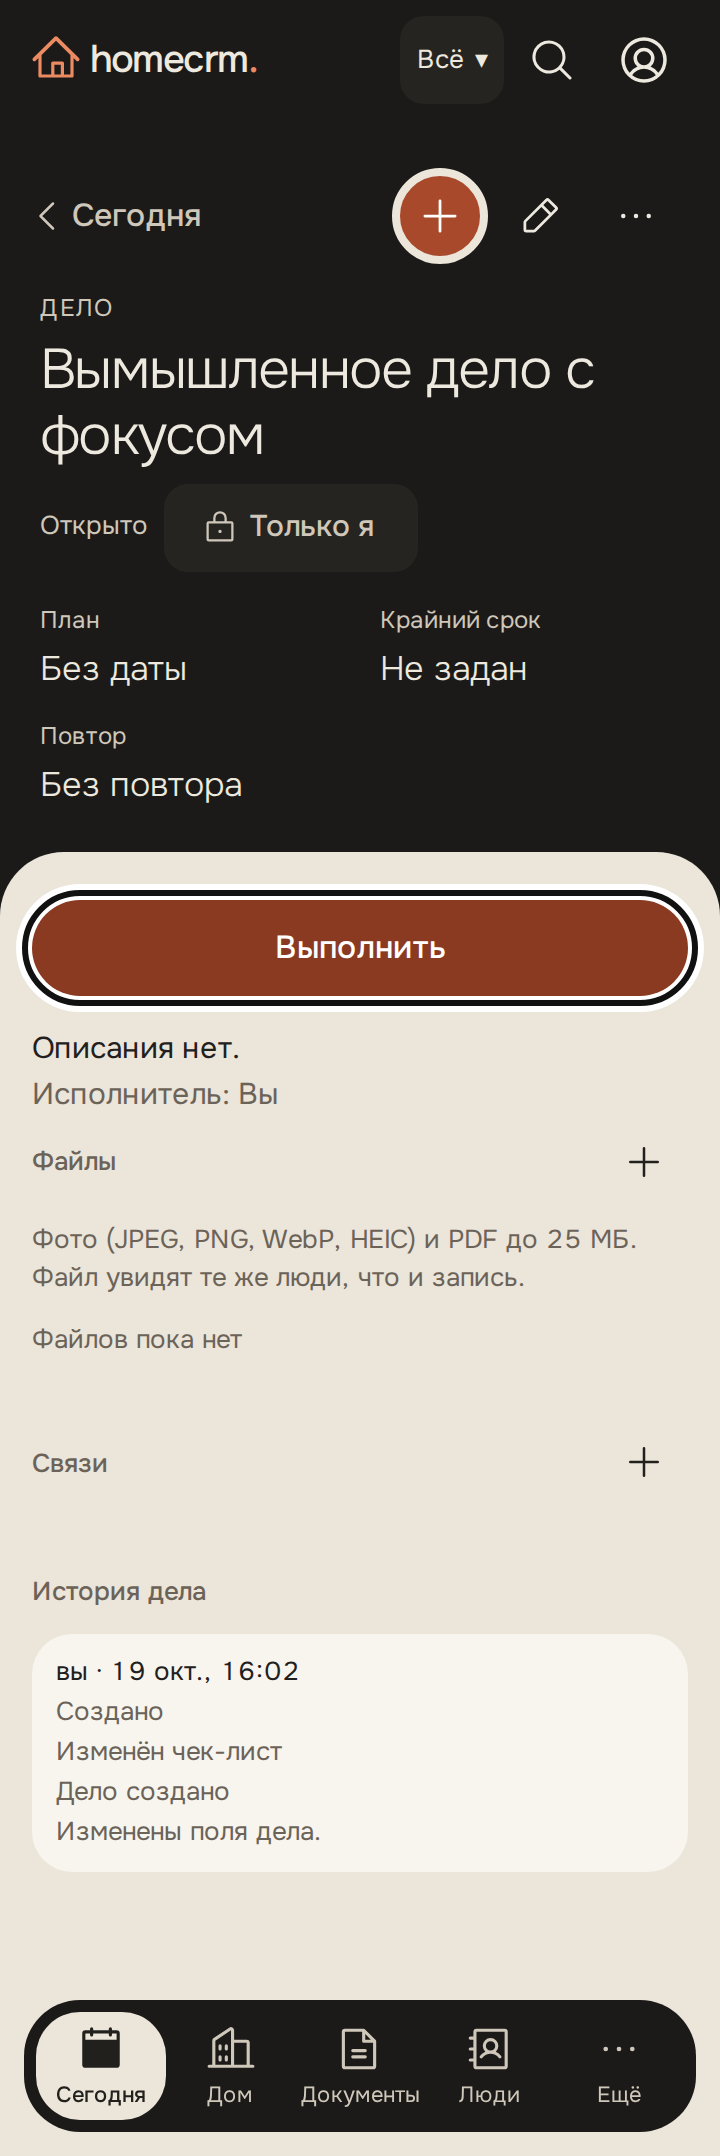
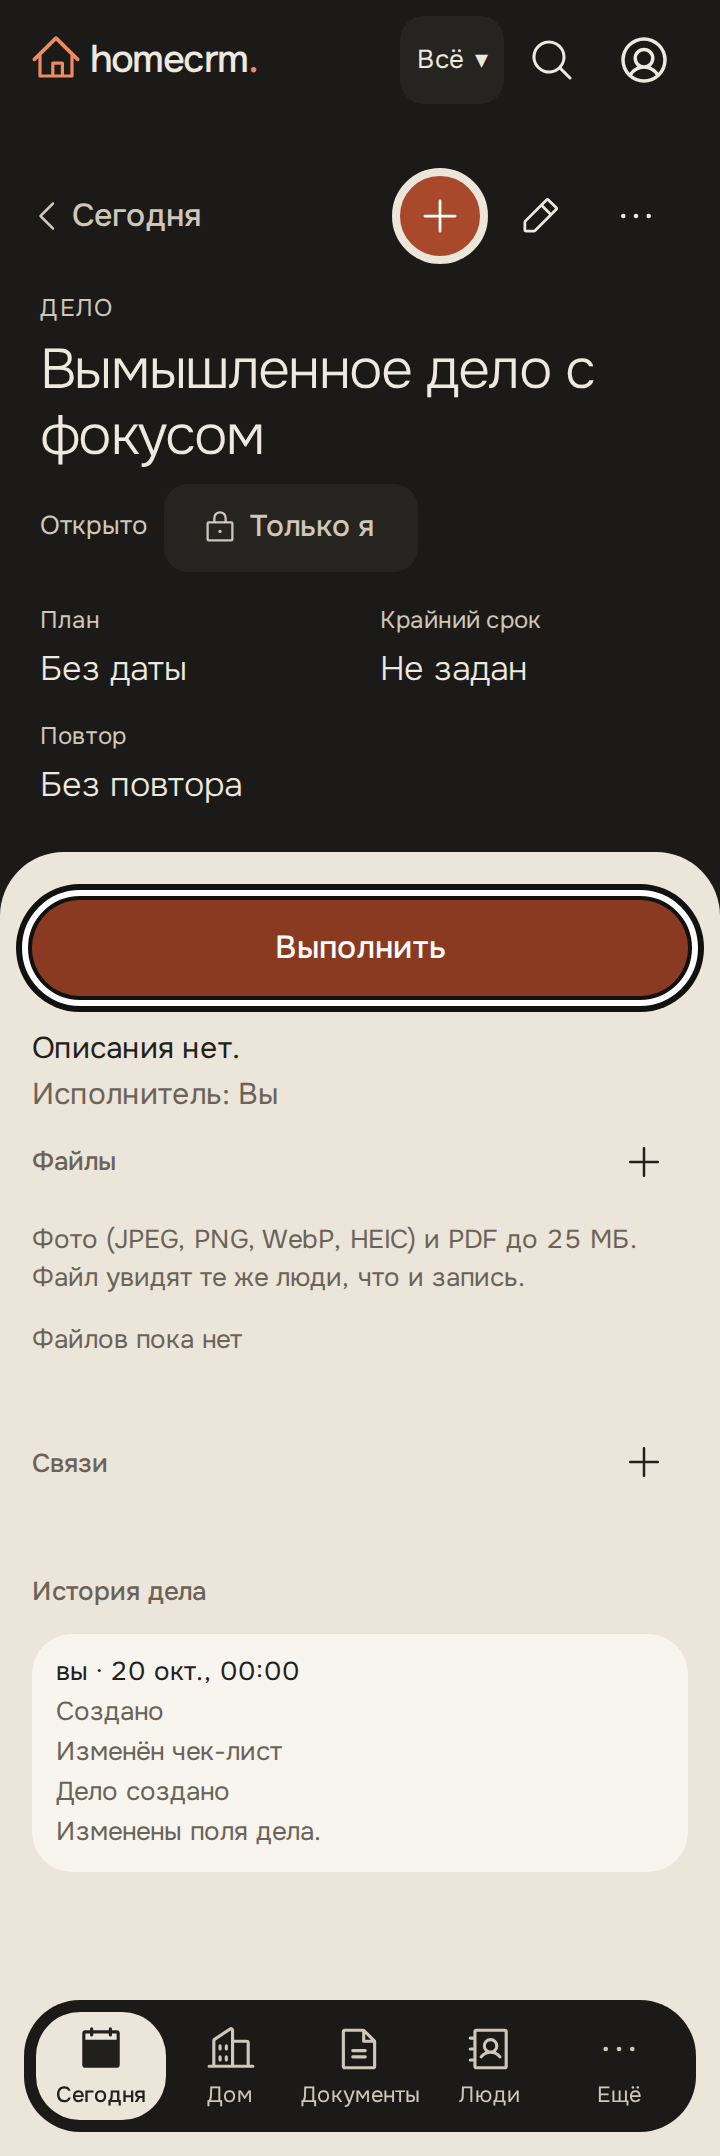
D20a-2: сохранить один запрос радара и согласовать регрессионные проверки

Changed region(s): [[0.0, 0.404, 0.9778, 0.4972], [0.3056, 0.7458, 0.3361, 0.7769]]

diff --git a/apps/web/e2e/app/pilot-fixes.e2e.ts b/apps/web/e2e/app/pilot-fixes.e2e.ts
@@ -11,6 +11,7 @@ import { homeDate, setHomeZone } from './deadlines-support.ts';
 import { seedDocument } from './documents-support.ts';
 import { apiAs, seedNote, seedObject } from './notes-support.ts';
 import { seedOrganization, seedPerson } from './people-support.ts';
+import { seedAccount } from './property-support.ts';
 import { signInAs } from './support.ts';
 
 async function check(page: Page, info: TestInfo, name: string) {
@@ -375,6 +376,7 @@ test('D19a.11–12: ребёнку метка заметки без кнопки
     title: 'Вымышленная квартира D19',
     objectType: 'property',
   });
+  await seedAccount(api, object.id, { title: 'Электричество D19' });
   const person = await seedPerson(api, {
     title: 'Вымышленный человек D19',
     data: { birthday: '1985-03-14', birthdayEnabled: true },
@@ -385,9 +387,8 @@ test('D19a.11–12: ребёнку метка заметки без кнопки
     page.getByRole('heading', { level: 3, name: object.title, exact: true }),
   ).toBeVisible();
   await expect(
-    page.getByRole('heading', { level: 4, name: 'Лицевые счета', exact: true }),
-  ).toBeVisible();
-  await expect(page.getByText('Лицевых счетов нет.', { exact: true })).toBeVisible();
+    page.getByRole('list', { name: `Лицевые счета: ${object.title}`, exact: true }),
+  ).toContainText('Электричество D19');
   await check(page, info, 'month');
   await page.goto(`#/people/contacts/${person.id}`);
   await expect(page.locator('dt').filter({ hasText: /^День рождения$/ })).toHaveCount(1);

diff --git a/apps/web/e2e/app/sections-ux.e2e.ts b/apps/web/e2e/app/sections-ux.e2e.ts
@@ -204,10 +204,11 @@ test('D20a-15: одна подпись ответственного, один з
   family,
 }, info) => {
   const api = await apiAs(family, 'adult');
+  const me = (await api.get('me')).body as { timeZone: string };
   await seedDocument(api, {
     title: 'Вымышленный полис',
     type: 'property_insurance',
-    expiresOn: homeDate(20),
+    expiresOn: homeDate(20, me.timeZone),
     placement: { spaceId: family.houseId, audience: 'adults' },
   });
   const person = await seedPerson(api, {
@@ -265,14 +266,14 @@ async function checkFocus(page: Page, target: Locator) {
       visible: element.matches(':focus-visible'),
       contrast: Math.max(
         contrast(style.outlineColor, background),
-        contrast('rgb(255, 255, 255)', background),
+        contrast('rgb(17, 17, 17)', background),
       ),
       light,
     };
   });
   expect(colors.visible).toBe(true);
-  expect(colors.outline).toBe('rgb(17, 17, 17)');
-  expect(colors.shadow).toContain('rgb(255, 255, 255)');
+  expect(colors.outline).toBe('rgb(255, 255, 255)');
+  expect(colors.shadow).toContain('rgb(17, 17, 17)');
   expect(colors.width).toBe('3px');
   expect(colors.contrast).toBeGreaterThanOrEqual(3);
 }

diff --git a/apps/web/src/tasks/TasksScreen.tsx b/apps/web/src/tasks/TasksScreen.tsx
@@ -9,6 +9,7 @@ import { buildRows, filterRows } from '../deadlines/radar.ts';
 import { useHouseNames } from '../deadlines/useHouseNames.ts';
 import { isOpenWindow } from '../deadlines/utility.ts';
 import { useHousehold } from '../household/HouseholdContext.tsx';
+import { listScopeOf } from '../notes/queries.ts';
 import { PushCard } from '../notifications/PushCard.tsx';
 import { todayIn } from '../objects/dates.ts';
 import { useQueue } from '../offline/OfflinePanel.tsx';
@@ -65,8 +66,12 @@ function TasksPage({
   children: ReactNode;
 }) {
   const { me, householdId, isAdmin } = useHousehold();
-  const houseNames = useHouseNames();
   const { scope } = useScope();
+  const houseNames = useHouseNames(
+    view === 'today'
+      ? { scope: listScopeOf(scope), view: 'mine', ...(house ? { householdId: house } : {}) }
+      : {},
+  );
   const [, setParams] = useSearchParams();
   const houseQuery = house && house !== householdId ? `?householdId=${house}` : '';
   const feedTabs = <TaskTabs houseQuery={houseQuery} />;

diff --git a/apps/web/src/styles/tokens.css b/apps/web/src/styles/tokens.css
@@ -35,11 +35,11 @@
 /* Два контура: хотя бы один контрастирует 3:1 с любой светлой или тёмной поверхностью. */
 :root[data-design="studio"][data-design]
 :is(:focus-visible, input:focus-visible + span, input:focus-visible + .choice__body) {
-  outline: 3px solid var(--focus-dark);
+  outline: 3px solid var(--focus-light);
   outline-offset: 2px;
   box-shadow:
-    0 0 0 2px var(--focus-light),
-    0 0 0 8px var(--focus-light);
+    0 0 0 2px var(--focus-dark),
+    0 0 0 8px var(--focus-dark);
 }
 
 /* Studio включается только рабочим entry. Прототип 0.5 сохраняет токены выше. */

diff --git a/apps/web/src/deadlines/useHouseNames.ts b/apps/web/src/deadlines/useHouseNames.ts
@@ -1,7 +1,8 @@
+import type { RadarFilters } from '@homecrm/shared';
 import { useRadar } from './useRadar.ts';
 
 /** Названия из существующего ответа радара: те же дома, которые доступны участнику. */
-export function useHouseNames() {
-  const radar = useRadar({ poll: false });
+export function useHouseNames(filters: Partial<RadarFilters> = {}) {
+  const radar = useRadar({ poll: false, filters });
   return (id: string) => radar.options.houses.find((house) => house.id === id)?.title ?? 'Дом';
 }
